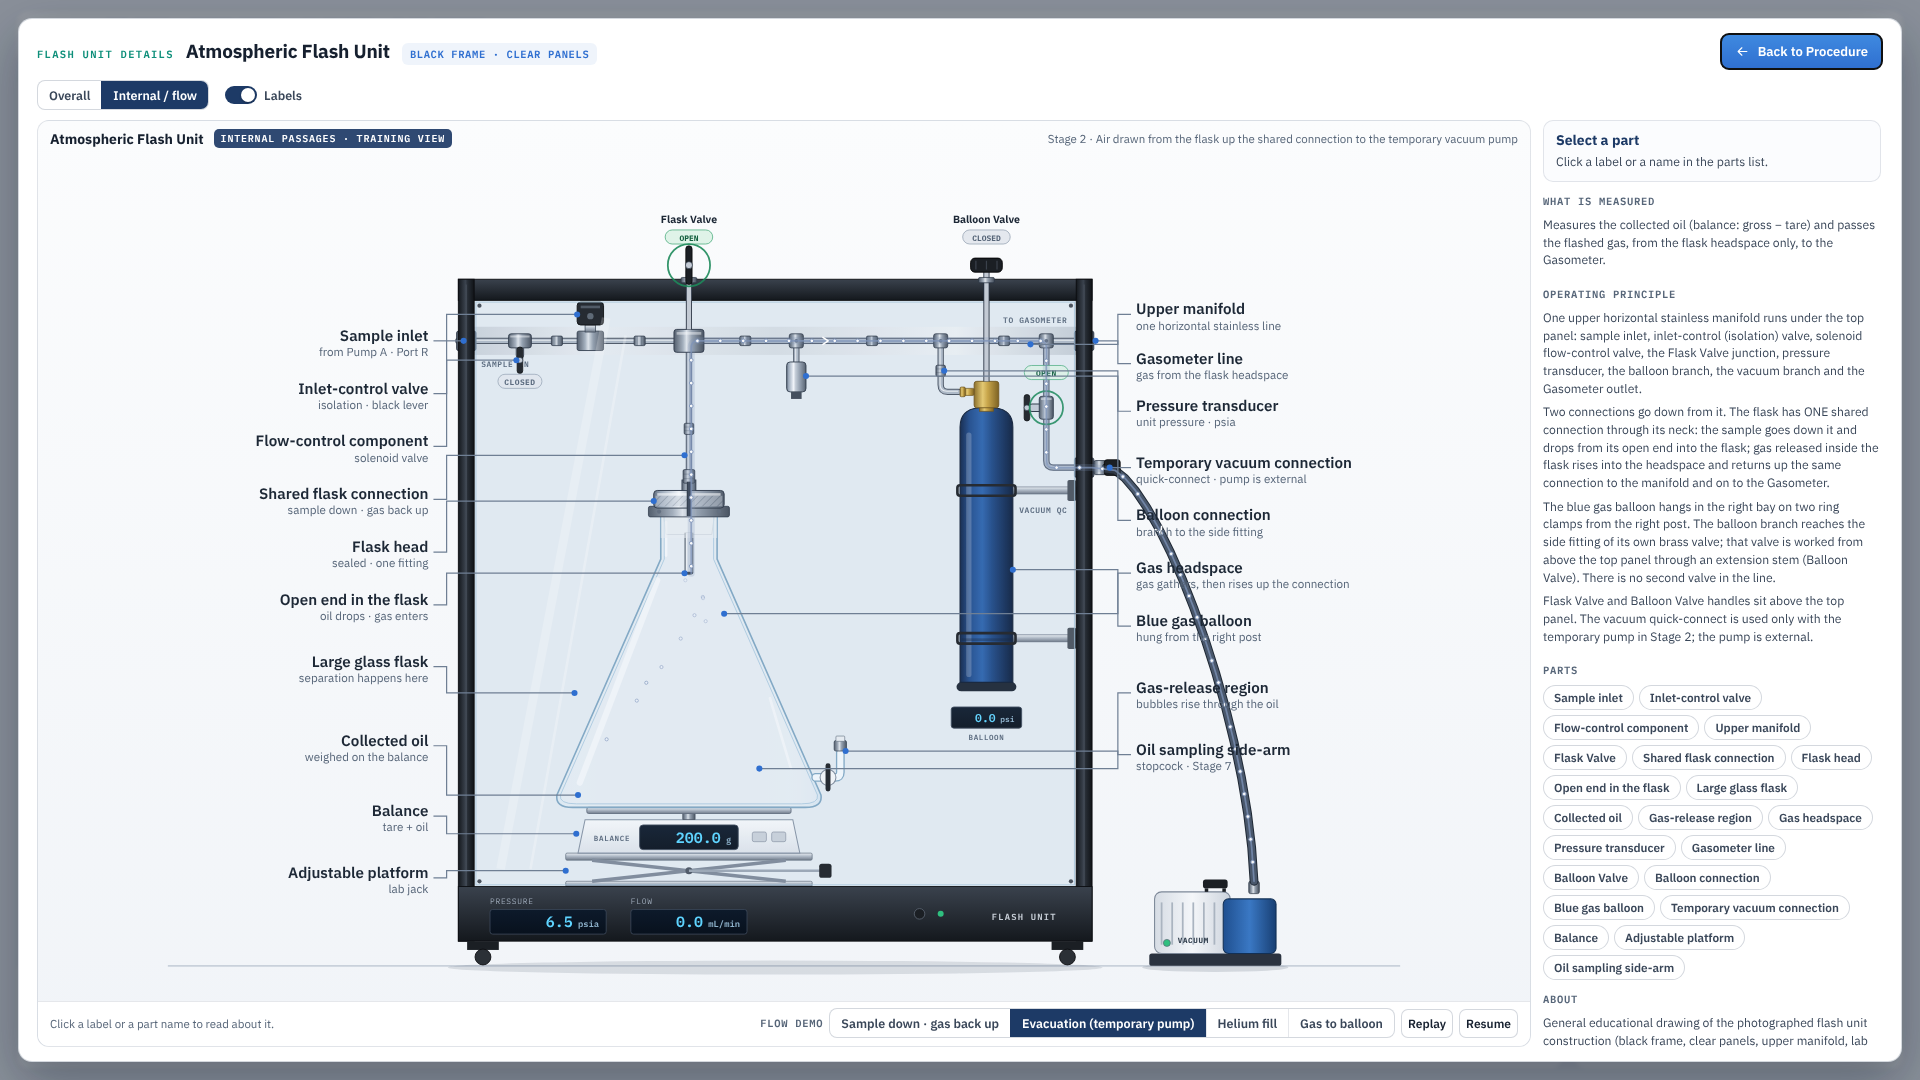
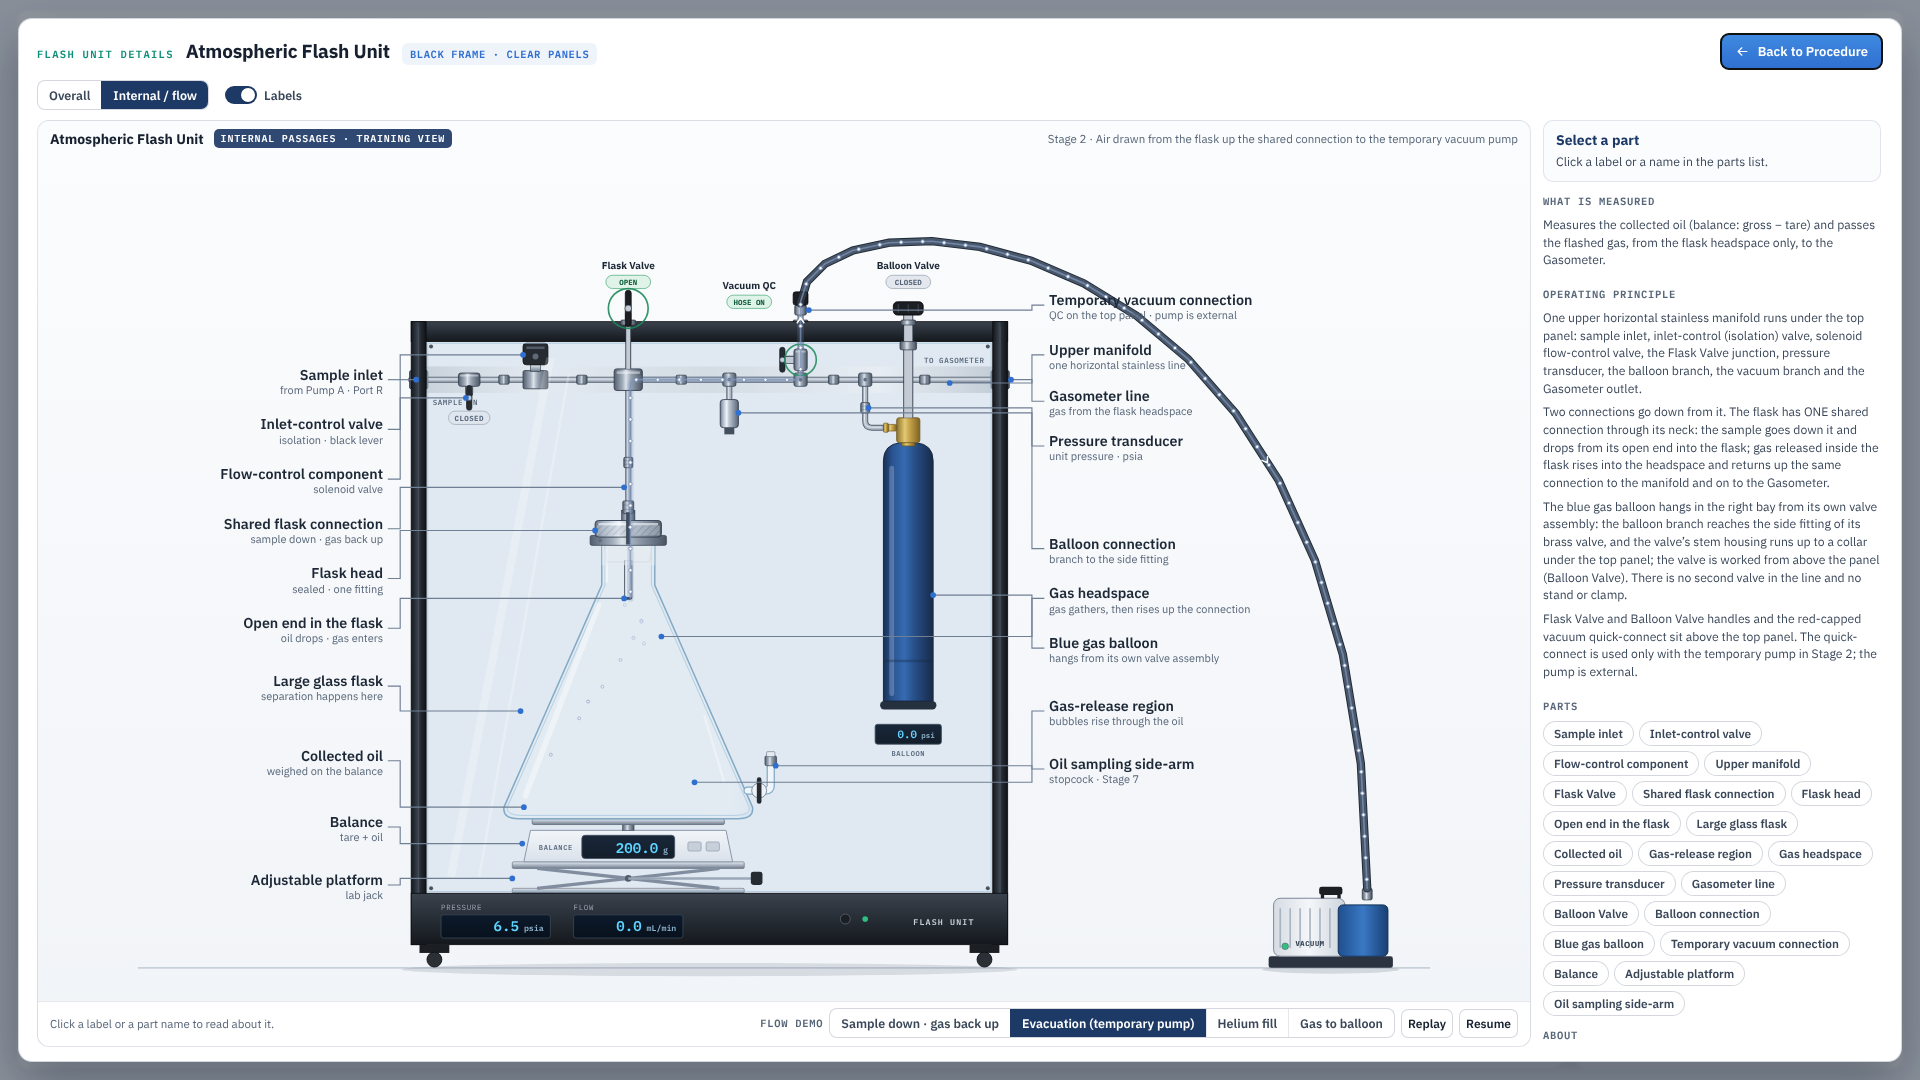
Flash prototype rev. E: balloon hung from its valve assembly, vacuum QC above the top panel
- Remove the balloon stand, ring clamps and post brackets; the balloon hangs
  from its own valve assembly (side-fitting branch + stem housing to the
  top panel), clear of the lower deck
- Move the red-capped vacuum quick-connect to above the top panel, with
  the vacuum branch rising straight from the manifold
- Valve timing and animation logic unchanged

Claude-Session: https://claude.ai/code/session_013YqmijwReojc95dHHUcSpf

diff --git a/prototypes/flash-unit/flash-unit.js b/prototypes/flash-unit/flash-unit.js
@@ -22,7 +22,7 @@
     flask: { cx: cx, neckTop: 268, neckBot: 318, neckHW: 32, wallIn: 4, bodyBot: 586, bodyHW: 150, bot: 600, botHW: 132 },
     head: { x0: cx - 40, x1: cx + 40, y0: 240, y1: 268 },
     tip: 334,                                                // open end of the shared connection, inside the flask
-    M: 70, iso: 70, sol: 150, pt: 384, balT: 548, vacX: 668, vacValveY: 146, vacY: 214,
+    M: 70, iso: 70, sol: 150, pt: 384, balT: 548, vacX: 470, vacValveY: 46, vacY: -10,   // vacuum QC on top of the panel
     ves: { x: 600, y: 468 },                                 // vessel origin (base centre); side fitting at y 128
     handleY: -16,                                            // handle level above the top panel
     balance: { x0: cx - 130, x1: cx + 130, pan: 600, top: 614, bot: 652 },
@@ -68,7 +68,7 @@
     RT.sIn = F.path(0, M).H(cx + SX - 8).turn(cx + SX, M, cx + SX, g.tip, 8).V(g.tip).end();
     RT.sInValve = g.sol;
     RT.gOut = F.path(cx + GX, g.tip).V(M + 8).turn(cx + GX, M, g.W, M, 8).H(g.W).end();
-    RT.vac = F.path(cx + GX, g.tip).V(M + 8).turn(cx + GX, M, g.vacX, M, 8).H(g.vacX - 8).turn(g.vacX, M, g.vacX, g.vacY, 8).V(g.vacY - 8).turn(g.vacX, g.vacY, g.W, g.vacY, 8).H(g.W).end();
+    RT.vac = F.path(cx + GX, g.tip).V(M + 8).turn(cx + GX, M, g.vacX, M, 8).H(g.vacX - 8).turn(g.vacX, M, g.vacX, g.vacY, 8).V(g.vacY - 14).end();
     RT.ves = F.path(g.W, M).H(g.balT + 8).turn(g.balT, M, g.balT, g.vesSide[1], 8).V(g.vesSide[1] - 8).turn(g.balT, g.vesSide[1], g.vesSide[0], g.vesSide[1], 8)
       .H(g.ves.x).V(g.ves.y - Parts.VG.h + 4).end();
   })();
@@ -161,12 +161,12 @@
     s += F.tube(F.path(0, M).H(g.W).end());                                                        // the one upper manifold
     s += F.tube(F.path(cx, M).V(g.head.y0 - 16).end());                                             // flask connection (down)
     s += F.tube(F.path(g.balT, M).V(g.vesSide[1] - 8).turn(g.balT, g.vesSide[1], g.vesSide[0], g.vesSide[1], 8).H(g.vesSide[0]).end());   // balloon connection (down)
-    s += F.tube(F.path(g.vacX, M).V(g.vacY - 8).turn(g.vacX, g.vacY, g.W, g.vacY, 8).H(g.W).end());  // vacuum branch
+    s += F.tube(F.path(g.vacX, M).V(g.vacY).end());                                                // vacuum branch, up through the top panel
     s += F.tube(F.path(g.pt, M).V(M + 26).end());
     [g.pt, g.balT, g.vacX].forEach(function (x) { s += F.tee(x, M); });
-    [[112, M], [206, M], [326, M], [470, M], [620, M]].forEach(function (q) { s += F.nut(q[0], q[1], 'h', .9); });
+    [[112, M], [206, M], [326, M], [510, M], [620, M]].forEach(function (q) { s += F.nut(q[0], q[1], 'h', .9); });
     s += F.nut(cx, 170, 'v', .9) + F.nut(g.balT, 104, 'v', .9);
-    [[0, M], [g.W, M], [g.W, g.vacY]].forEach(function (q) { var x = q[0] ? g.W - g.post : 0; s += R(x - 2, q[1] - 11, g.post + 4, 22, 'rx="2" fill="url(#ppSteelD)" stroke="#2a3443" stroke-width=".9"'); });
+    [[0, M], [g.W, M]].forEach(function (q) { var x = q[0] ? g.W - g.post : 0; s += R(x - 2, q[1] - 11, g.post + 4, 22, 'rx="2" fill="url(#ppSteelD)" stroke="#2a3443" stroke-width=".9"'); });
     // solenoid flow-control valve on the manifold
     var sx = g.sol;
     s += R(sx - 15, M - 11, 30, 22, 'rx="2" fill="url(#ppSteelD)" stroke="#2a3443" stroke-width="1"');
@@ -178,7 +178,6 @@
     s += R(cx - 17, M - 13, 34, 26, 'rx="3" fill="url(#ppSteelD)" stroke="#2a3443" stroke-width="1.1"') + R(cx - 14, M - 10, 28, 3, 'fill="#fff" opacity=".45"');
     s += T(26, M + 30, 'SAMPLE IN', MONO + ' font-size="9" font-weight="600" letter-spacing=".7" fill="#566578"');
     s += T(g.W - 28, M - 20, 'TO GASOMETER', 'text-anchor="end" ' + MONO + ' font-size="9" font-weight="600" letter-spacing=".7" fill="#566578"');
-    s += T(g.W - 28, g.vacY + 52, 'VACUUM QC', 'text-anchor="end" ' + MONO + ' font-size="9" font-weight="600" letter-spacing=".7" fill="#566578"');
     return s;
   }
   // top-panel controls: stems through the panel, handles above it (Flask Valve, Balloon Valve)
@@ -186,7 +185,9 @@
     var g = G, v = V.valve || {}, s = '', y = g.handleY;
     var ctl = function (x, yBody, open, name, knob) {
       var on = open > 0.5, o = '';
-      o += L(x, yBody, x, y + 6, 'stroke="#2a3443" stroke-width="7"') + L(x, yBody, x, y + 6, 'stroke="#c3cad4" stroke-width="5"');
+      var w = knob ? 12 : 7;
+      o += L(x, yBody, x, y + 6, 'stroke="#2a3443" stroke-width="' + w + '"') + L(x, yBody, x, y + 6, 'stroke="#c3cad4" stroke-width="' + (w - 2) + '"');
+      if (knob) o += R(x - 10, G.rail, 20, 10, 'rx="2" fill="url(#ppSteelD)" stroke="#2a3443" stroke-width=".8"');   // hanger collar under the panel
       o += R(x - 9, -2, 18, 6, 'rx="1.5" fill="url(#ppSteelD)" stroke="#2a3443" stroke-width=".8"');            // gland on the panel
       if (knob) o += R(x - 18, y - 8, 36, 16, 'rx="5" fill="#1b1f24" stroke="#000" stroke-width="1"') + L(x - 12, y - 5, x - 12, y + 5, 'stroke="#3a414b" stroke-width="1.4"') + L(x, y - 5, x, y + 5, 'stroke="#3a414b" stroke-width="1.4"') + L(x + 12, y - 5, x + 12, y + 5, 'stroke="#3a414b" stroke-width="1.4"');
       else o += '<g transform="rotate(' + (on ? 90 : 0) + ' ' + x + ' ' + y + ')">' + R(x - 22, y - 3.6, 44, 7.2, 'rx="3.6" fill="#1b1f24" stroke="#000" stroke-width=".8"') + '</g>' + C(x, y, 4, 'fill="#c5ccd6" stroke="#2a3443" stroke-width=".8"');
@@ -278,19 +279,11 @@
     s += R(a.x1 - 7, a.top - 8, 14, 12, 'rx="2" fill="url(#ppSteelD)" stroke="#2a3443" stroke-width=".8"') + R(a.x1 - 5, a.top - 13, 10, 6, 'rx="1" fill="#e9edf2" stroke="#5d6878" stroke-width=".7"');
     return s;
   }
-  // blue gas balloon: hung inside the right bay by two ring clamps on arms from the right post
-  function vesselSupport() {
-    var v = G.ves, s = '';
-    [v.y - 228, v.y - 60].forEach(function (y) {
-      s += R(v.x + 30, y - 4, G.W - G.post - v.x - 30, 8, 'fill="url(#ppSteelV)" stroke="#5d6878" stroke-width=".7"');
-      s += R(G.W - G.post - 10, y - 12, 10, 24, 'rx="2" fill="#4a525d"');
-    });
-    return s;
-  }
+  // the balloon hangs from its own valve assembly: branch to the side fitting + stem housing up to the top-panel gland
+  function vesselSupport() { return ''; }
   function vessel(V) {
     var v = G.ves, s = '';
     s += '<g transform="translate(' + v.x + ' ' + v.y + ')">' + Parts.vessel(V, { stem: true }) + '</g>';
-    [v.y - 228, v.y - 60].forEach(function (y) { s += R(v.x - 33, y - 6, 66, 12, 'rx="3" fill="none" stroke="#1b1f24" stroke-width="3"'); });
     var bp = 14.5 * F.clamp((V.balloon || 0) / 250, 0, 1), ty = v.y + 18;
     s += R(v.x - 40, ty, 80, 24, 'rx="3" fill="url(#ppScreen)" stroke="#3a4656" stroke-width="1"');
     s += T(v.x + 32, ty + 17, bp.toFixed(1) + '<tspan font-size="9" fill="#8fb3cc"> psi</tspan>', 'text-anchor="end" ' + MONO + ' font-size="13" font-weight="600" fill="' + (bp > 0.05 ? '#7ff0bf' : '#5fd4ff') + '"');
@@ -301,10 +294,16 @@
     var g = G, v = V.valve || {}, s = '';
     s += F.valve(g.iso, g.M, 'h', v.inlet || 0, { side: 'down', tag: [0, 46] });
     s += C(g.sol, g.M - 28, 3.6, 'fill="' + ((v.inlet || 0) > 0.5 ? '#2fbf7f' : '#59626e') + '"');      // solenoid lamp (energised = open)
-    s += F.valve(g.vacX, g.vacValveY, 'v', v.vac || 0, { side: 'left', tag: [0, -40] });
-    var h = V.vacHose || 0;
-    s += R(g.W + 2, g.vacY - 8, 14, 16, 'rx="2" fill="url(#ppSteelD)" stroke="#2a3443" stroke-width=".9"');
-    if (h < 0.98) s += R(g.W + 14, g.vacY - 7, 8, 14, 'rx="2" fill="#c8323c" stroke="#7e1a22" stroke-width=".8" opacity="' + r1(1 - h) + '"');
+    s += F.valve(g.vacX, g.vacValveY, 'v', v.vac || 0, { side: 'left' });
+    // vacuum quick-connect above the top panel: red cap unless the temporary hose is attached
+    var h = V.vacHose || 0, qy = g.vacY;
+    s += R(g.vacX - 9, -2, 18, 6, 'rx="1.5" fill="url(#ppSteelD)" stroke="#2a3443" stroke-width=".8"');
+    s += R(g.vacX - 7, qy - 10, 14, 12, 'rx="2" fill="url(#ppSteelD)" stroke="#2a3443" stroke-width=".9"');
+    if (h < 0.98) s += R(g.vacX - 8, qy - 20, 16, 11, 'rx="2.5" fill="#c8323c" stroke="#7e1a22" stroke-width=".8" opacity="' + r1(1 - h) + '"');
+    var lx = g.vacX - 62;
+    s += T(lx, qy - 30, 'Vacuum QC', 'text-anchor="middle" ' + SANS + ' font-size="12" font-weight="700" fill="#1d2836"');
+    s += R(lx - 27, qy - 22, 54, 16, 'rx="8" fill="' + (h > 0.98 ? '#dff3e8' : '#e4e8ee') + '" stroke="' + (h > 0.98 ? '#4fae80' : '#9aa6b5') + '" stroke-width=".9"') +
+      T(lx, qy - 10, h > 0.98 ? 'HOSE ON' : 'CAPPED', 'text-anchor="middle" ' + MONO + ' font-size="9" font-weight="700" fill="' + (h > 0.98 ? '#14603f' : '#566578') + '"');
     return s;
   }
   function displays(V) {
@@ -354,16 +353,16 @@
     { id: 'manifold', n: 'Upper manifold', s: 'one horizontal stainless line', a: [G.W - 70, G.M + 4], p: [770, 40], an: 'start' },
     { id: 'gasLine', n: 'Gasometer line', s: 'gas from the flask headspace', a: [G.W + 4, G.M], p: [770, 96], an: 'start' },
     { id: 'pt', n: 'Pressure transducer', s: 'unit pressure · psia', a: [G.pt + 11, G.M + 40], p: [770, 150], an: 'start' },
-    { id: 'vacConn', n: 'Temporary vacuum connection', s: 'quick-connect · pump is external', a: [G.W + 20, G.vacY], p: [770, 214], an: 'start' },
+    { id: 'vacConn', n: 'Temporary vacuum connection', s: 'QC on the top panel · pump is external', a: [G.vacX + 10, G.vacY - 4], p: [770, -20], an: 'start' },
     { id: 'balloonConn', n: 'Balloon connection', s: 'branch to the side fitting', a: [G.balT + 4, 104], p: [770, 274], an: 'start' },
     { id: 'headspace', n: 'Gas headspace', s: 'gas gathers, then rises up the connection', a: [cx + 40, 380], p: [770, 334], an: 'start' },
-    { id: 'vessel', n: 'Blue gas balloon', s: 'hung from the right post', a: [G.ves.x + 30, 330], p: [770, 394], an: 'start' },
+    { id: 'vessel', n: 'Blue gas balloon', s: 'hangs from its own valve assembly', a: [G.ves.x + 30, 330], p: [770, 394], an: 'start' },
     { id: 'release', n: 'Gas-release region', s: 'bubbles rise through the oil', a: [cx + 80, 556], p: [770, 470], an: 'start' },
     { id: 'arm', n: 'Oil sampling side-arm', s: 'stopcock · Stage 7', a: [G.arm.x1 + 6, G.arm.top + 4], p: [770, 540], an: 'start' }
   ];
 
   window.FlashUnit = {
     G: G, RT: RT, layers: layers, oilTop: oilTop, LABELS: LABELS,
-    port: { sampleIn: [0, G.M], gasOut: [G.W, G.M], vac: [G.W + 16, G.vacY], sample: [G.arm.x1, G.arm.top - 13] }
+    port: { sampleIn: [0, G.M], gasOut: [G.W, G.M], vac: [G.vacX, G.vacY - 12], sample: [G.arm.x1, G.arm.top - 13] }
   };
 })();

diff --git a/prototypes/flash-unit/details.js b/prototypes/flash-unit/details.js
@@ -16,14 +16,14 @@
     fu: {
       eyebrow: 'Flash Unit Details', name: 'Atmospheric Flash Unit', variant: 'Black frame · clear panels', mod: 'FlashUnit', mode: 'fu',
       views: [['overall', 'Overall'], ['internal', 'Internal / flow']], viewArg: { overall: 'exterior', internal: 'internal' },
-      vb: [-330, -140, 1400, 960], ls: 1.15,
+      vb: [-330, -200, 1560, 1020], ls: 1.15,
       demos: [[4, 'Sample down · gas back up'], [2, 'Evacuation (temporary pump)'], [3, 'Helium fill'], [5, 'Gas to balloon']],
       measures: 'Measures the collected oil (balance: gross − tare) and passes the flashed gas, from the flask headspace only, to the Gasometer.',
       principle: [
         'One upper horizontal stainless manifold runs under the top panel: sample inlet, inlet-control (isolation) valve, solenoid flow-control valve, the Flask Valve junction, pressure transducer, the balloon branch, the vacuum branch and the Gasometer outlet.',
         'Two connections go down from it. The flask has ONE shared connection through its neck: the sample goes down it and drops from its open end into the flask; gas released inside the flask rises into the headspace and returns up the same connection to the manifold and on to the Gasometer.',
-        'The blue gas balloon hangs in the right bay on two ring clamps from the right post. The balloon branch reaches the side fitting of its own brass valve; that valve is worked from above the top panel through an extension stem (Balloon Valve). There is no second valve in the line.',
-        'Flask Valve and Balloon Valve handles sit above the top panel. The vacuum quick-connect is used only with the temporary pump in Stage 2; the pump is external.'
+        'The blue gas balloon hangs in the right bay from its own valve assembly: the balloon branch reaches the side fitting of its brass valve, and the valve’s stem housing runs up to a collar under the top panel; the valve is worked from above the panel (Balloon Valve). There is no second valve in the line and no stand or clamp.',
+        'Flask Valve and Balloon Valve handles and the red-capped vacuum quick-connect sit above the top panel. The quick-connect is used only with the temporary pump in Stage 2; the pump is external.'
       ],
       parts: {
         sampleIn: { n: 'Sample inlet', d: 'Bulkhead on the left post where the sample line from the PVT Cell (Pump A through the Port R valve) enters the manifold.', in: B },
@@ -42,8 +42,8 @@
         gasLine: { n: 'Gasometer line', d: 'Manifold outlet on the right post to the Gasometer inlet.', in: B },
         balloonValve: { n: 'Balloon Valve', d: 'The balloon’s own brass valve, worked from above the top panel through an extension stem. Open only in Stage 5.', in: B },
         balloonConn: { n: 'Balloon connection', d: 'Branch from the manifold down to the side fitting of the balloon valve.', in: B },
-        vessel: { n: 'Blue gas balloon', d: 'Tall dark-blue cylinder with a brass top valve, hung from the right post by two ring clamps. Holds the GC gas sample; its pressure is shown below it.', in: B },
-        vacConn: { n: 'Temporary vacuum connection', d: 'Vacuum valve and capped quick-connect on the right post. The pump is external: connected for Stage 2, then disconnected and removed.', in: B },
+        vessel: { n: 'Blue gas balloon', d: 'Tall dark-blue cylinder suspended from its own brass valve assembly (no stand or clamps), clear of the lower deck. Holds the GC gas sample; its pressure is shown below it.', in: B },
+        vacConn: { n: 'Temporary vacuum connection', d: 'Vacuum valve on the branch rising from the manifold, and a red-capped quick-connect above the top panel. The pump is external: its hose connects there for Stage 2 only, then it is disconnected and removed.', in: B },
         balance: { n: 'Balance', d: 'Weighs the flask and contents: 200 g tare, the oil collected is the gain.', in: B },
         platform: { n: 'Adjustable platform', d: 'Lab jack under the balance.', in: B },
         arm: { n: 'Oil sampling side-arm', d: 'Glass arm with a stopcock below the oil level, closed during flashing; used in Stage 7 to draw the oil aliquot by syringe.', in: B }

diff --git a/prototypes/flash-unit/scene.js b/prototypes/flash-unit/scene.js
@@ -22,7 +22,7 @@
     // left to right: computer + controller, full-size PVT Cell (same scale as the procedure pages' cell views), Flash Unit, Gasometer
     system: { vb: [-6, 372, 1842, 648], floor: 1000, desk: { x: 10, y: 700, s: 0.55, legs: 295 }, cell: { x: 56, y: 433, s: 0.75 }, fu: { x: 840, y: 470, s: 0.68 }, pump: { x: 1392, y: 1000, s: 0.6 }, ga: { x: 1500, y: 467, s: 0.62 } },
     density: { vb: [-10, 180, 1700, 840], floor: 1000, fu: { x: 40, y: 298, s: 0.9 }, dm: { x: 790, y: 353, s: 1.4 } },
-    fu: { vb: [-300, -130, 1340, 950], floor: 780, fu: { x: 0, y: 0, s: 1 }, pump: { x: 860, y: 780, s: 1 } },
+    fu: { vb: [-300, -190, 1520, 1010], floor: 780, fu: { x: 0, y: 0, s: 1 }, pump: { x: 1110, y: 780, s: 1 } },
     ga: { vb: [-400, -40, 1340, 920], floor: 860, ga: { x: 0, y: 0, s: 1 } },
     dm: { vb: [-300, -110, 1180, 500], floor: 362, dm: { x: 0, y: 0, s: 1 } }
   };
@@ -152,7 +152,8 @@
   /* ------------------------------------------------------------ temporary vacuum pump + hose */
   function hoseGeo(Lo) {
     var a = tf(Lo.fu, FU.port.vac), b = tf(Lo.pump, PT.PG.inlet);
-    return F.path(a[0], a[1]).C(a[0] + 50, a[1], b[0] - 8, b[1] - 200, b[0], b[1]).end();
+    var k = Lo.fu.s, top = a[1] - 150 * k;
+    return F.path(a[0], a[1]).C(a[0], top, b[0], top, b[0], b[1]).end();
   }
   function vacMarkup(Lo, V) {
     var show = V.vacPump || 0, h = V.vacHose || 0;
@@ -164,7 +165,7 @@
       // hose grows from the pump toward the quick-connect (drawn from the pump end)
       var rev = F.geo('', hg.pts.slice().reverse());
       s += '<g fill="none" stroke-linecap="round"><path d="' + rev.d + '" stroke="#1f2833" stroke-width="10" stroke-dasharray="' + r1(h * len) + ' 9999"/><path d="' + rev.d + '" stroke="#3b4757" stroke-width="7.5" stroke-dasharray="' + r1(h * len) + ' 9999"/></g>';
-      if (h > 0.98) { var a = tf(Lo.fu, FU.port.vac); s += R(a[0] - 2, a[1] - 9, 18, 18, 'rx="3" fill="#1b1f24" stroke="#000" stroke-width=".8"'); }
+      if (h > 0.98) { var a = tf(Lo.fu, FU.port.vac), k = Lo.fu.s; s += R(a[0] - 9 * k, a[1] - 14 * k, 18 * k, 16 * k, 'rx="3" fill="#1b1f24" stroke="#000" stroke-width=".8"'); }
     }
     return s;
   }

diff --git a/prototypes/flash-unit/README.md b/prototypes/flash-unit/README.md
@@ -14,6 +14,12 @@ No build step. `build-preview.py OUT.html` bundles the page into one file for th
 
 Review links: `?stage=n` (end of stage n) · `&run=1&t=<s>&hold=1` (run stage n, fast-forward, pause) · `&view=auto|system|fu|ga|dm` · `&labels=0` · `&details=fu|ga|dm&dview=overall|internal&demo=<stage>&dt=<s>`.
 
+## Rev. E — balloon mounting and vacuum quick-connect
+
+- The balloon's stand, ring clamps and post brackets are removed. The balloon hangs from its own brass valve assembly: the manifold branch goes to the side fitting, and the valve's stem housing rises to a collar under the top panel and the Balloon Valve handle above it. The body is clear of the lower deck.
+- The red-capped vacuum quick-connect moved from the right post to above the top panel. Its branch rises straight from the manifold through the vacuum valve. The temporary pump's hose attaches there in Stage 2 only.
+- No new valves, and valve timing is unchanged.
+
 ## Rev. D — shared flask connection, suspended balloon, horizontal U-tube (this revision)
 
 Supersedes the earlier two-passage flask head, the balloon on the lower deck and the small vertical U-tube.
